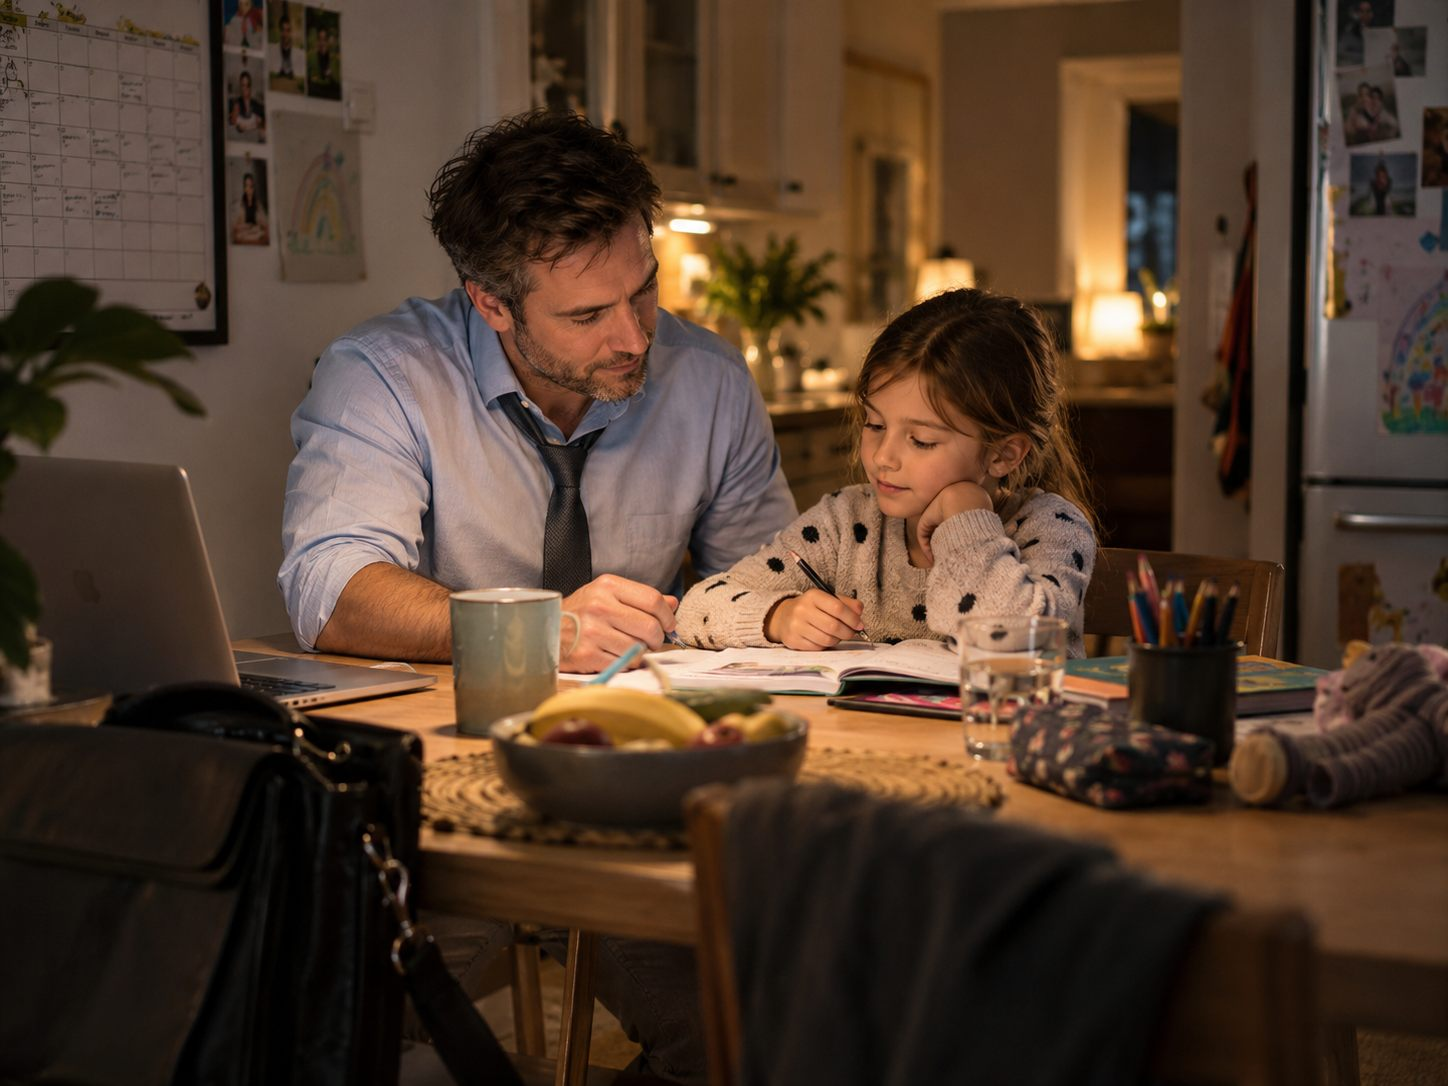
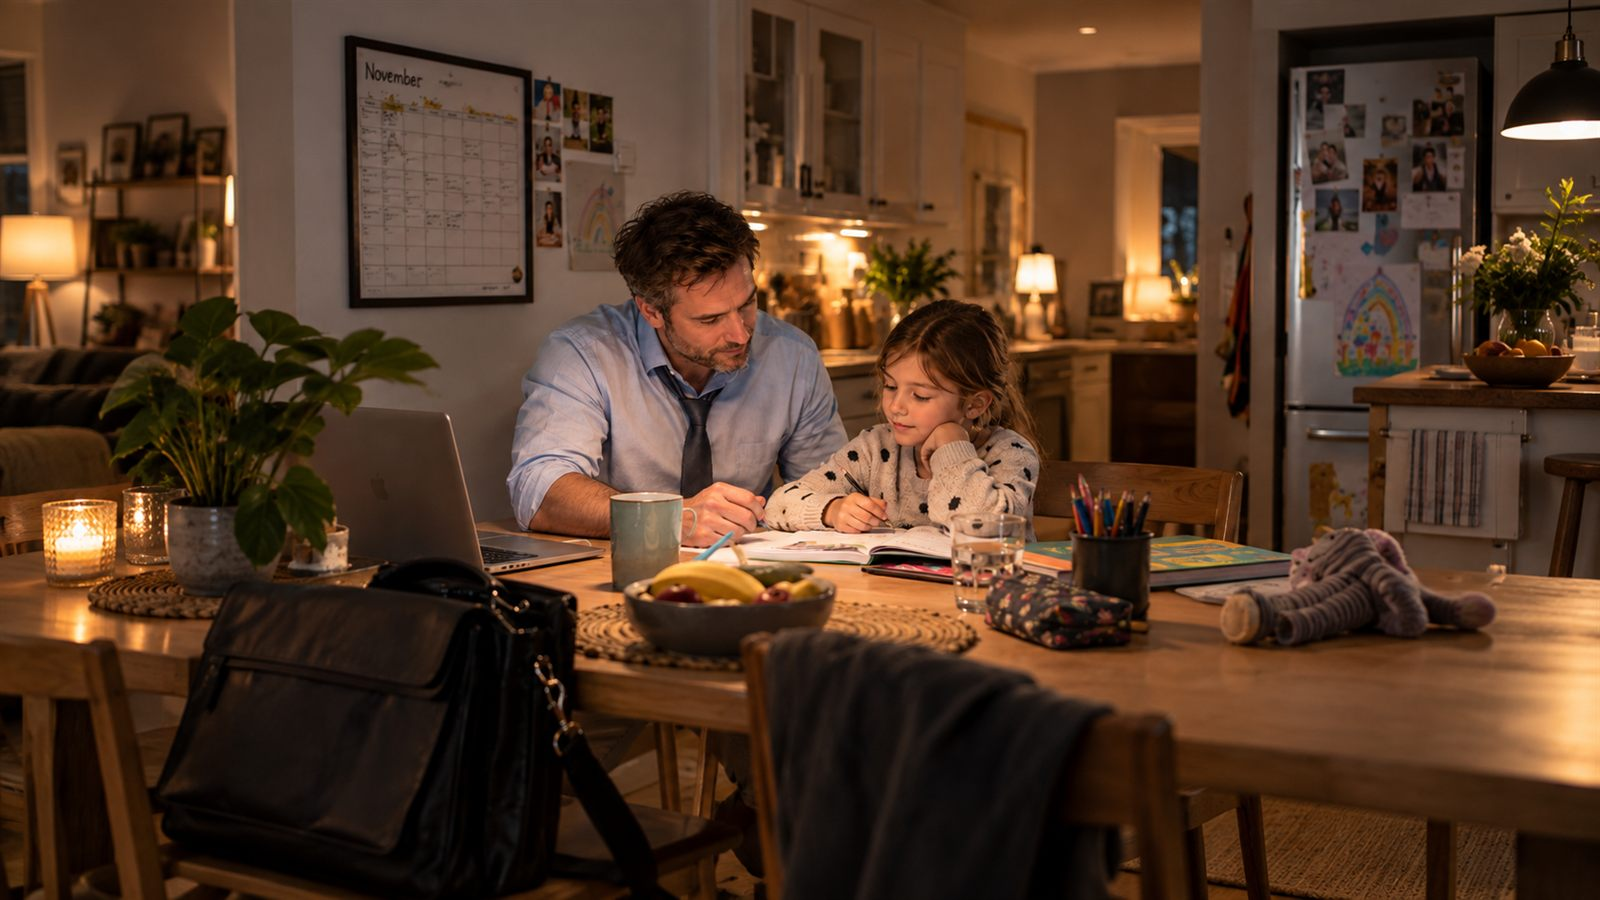
Neues Bild fuer den Beitrag zum Vollzeitjob
Das alte Bild war 4:3 und wirkte im Artikelkopf gedrungen. Das neue ist
16:9. Alt-Text nachgezogen: Der Laptop steht jetzt offen auf dem Tisch.

diff --git a/src/content/blog/praesenter-vater-vollzeitjob-nach-trennung.md b/src/content/blog/praesenter-vater-vollzeitjob-nach-trennung.md
@@ -44,7 +44,7 @@ quellen:
     art: behoerde
     abgerufen: 2026-09-12
 bild: "/uploads/praesenter-vater-vollzeitjob-nach-trennung.jpg"
-bildAlt: "Vater sitzt nach Feierabend mit seinem Kind am Küchentisch, während der geschlossene Arbeitslaptop danebenliegt."
+bildAlt: "Vater im Hemd sitzt nach der Arbeit mit seiner Tochter am Küchentisch und schaut ihr beim Schreiben zu, daneben der noch aufgeklappte Laptop und die Arbeitstasche am Stuhl."
 seo:
   titel: "Präsenter Vater trotz Vollzeitjob nach der Trennung"
   beschreibung: "Vollzeitjob und getrennt Vater sein: So bleibst du verlässlich präsent, kennst den Alltag deines Kindes und schützt eure gemeinsame Zeit vor dem Beruf."
